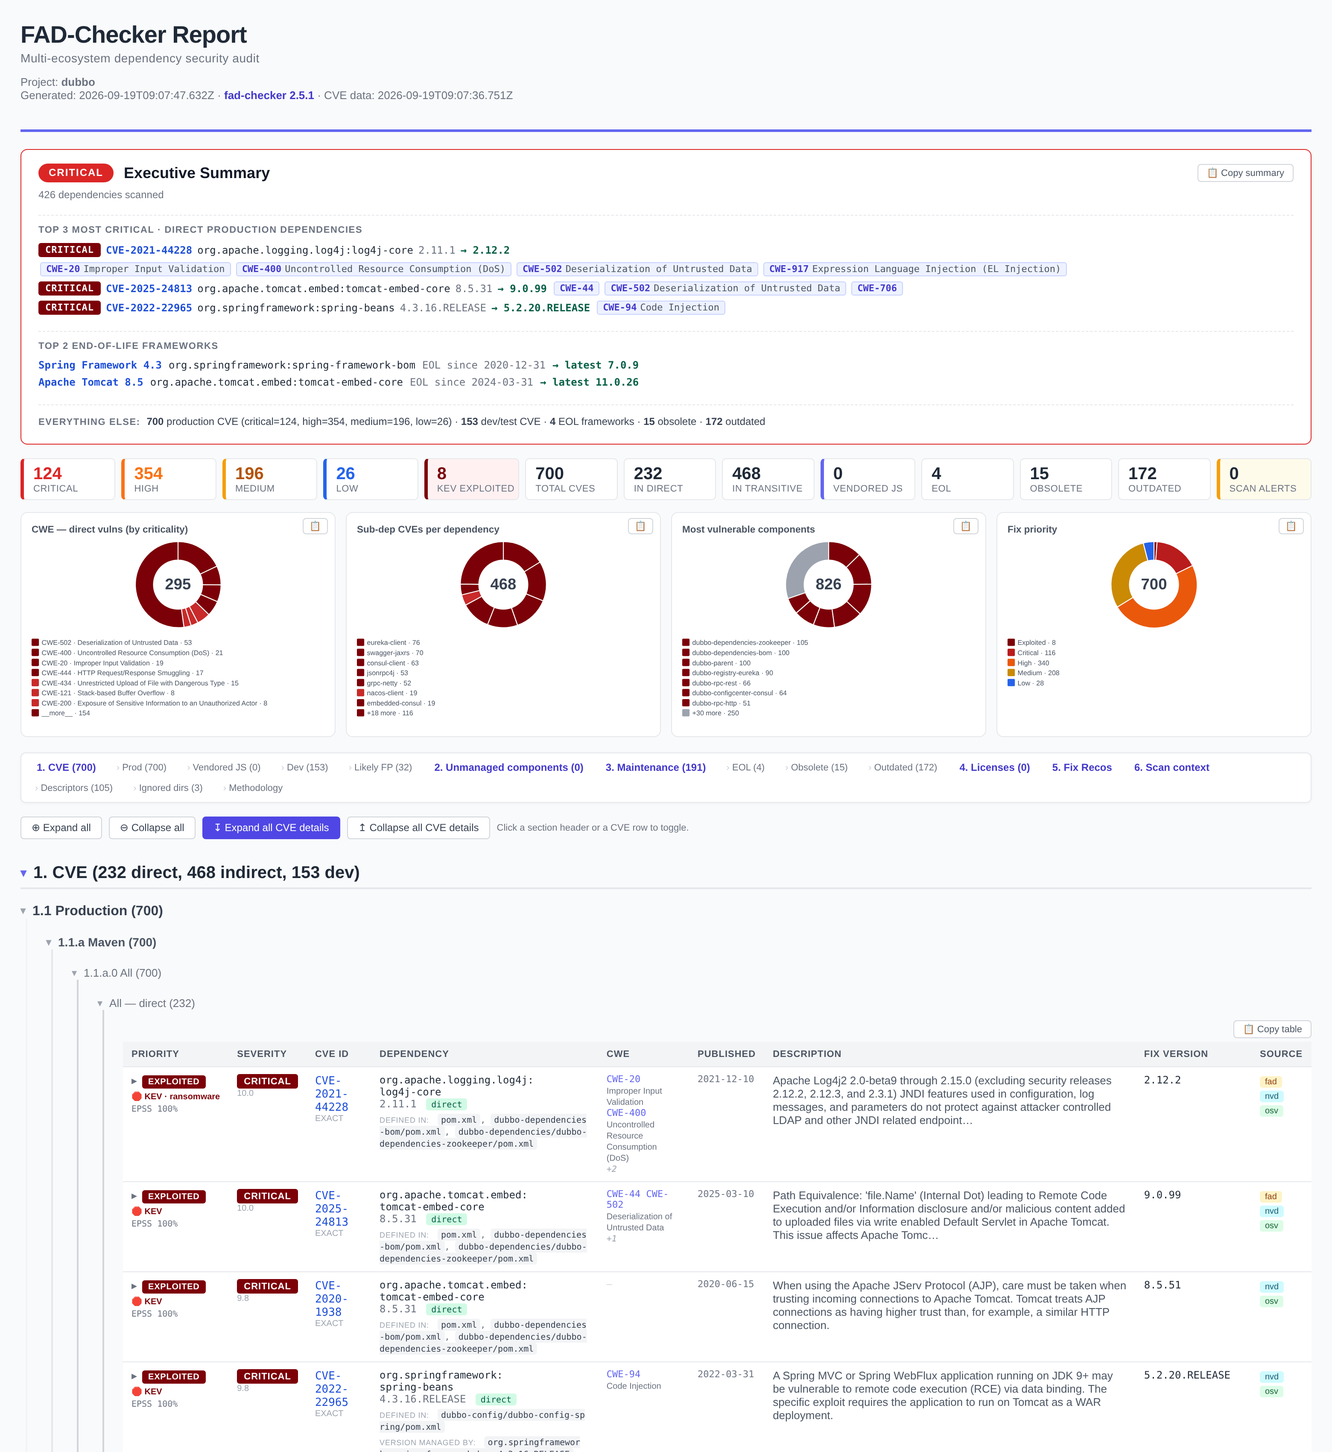
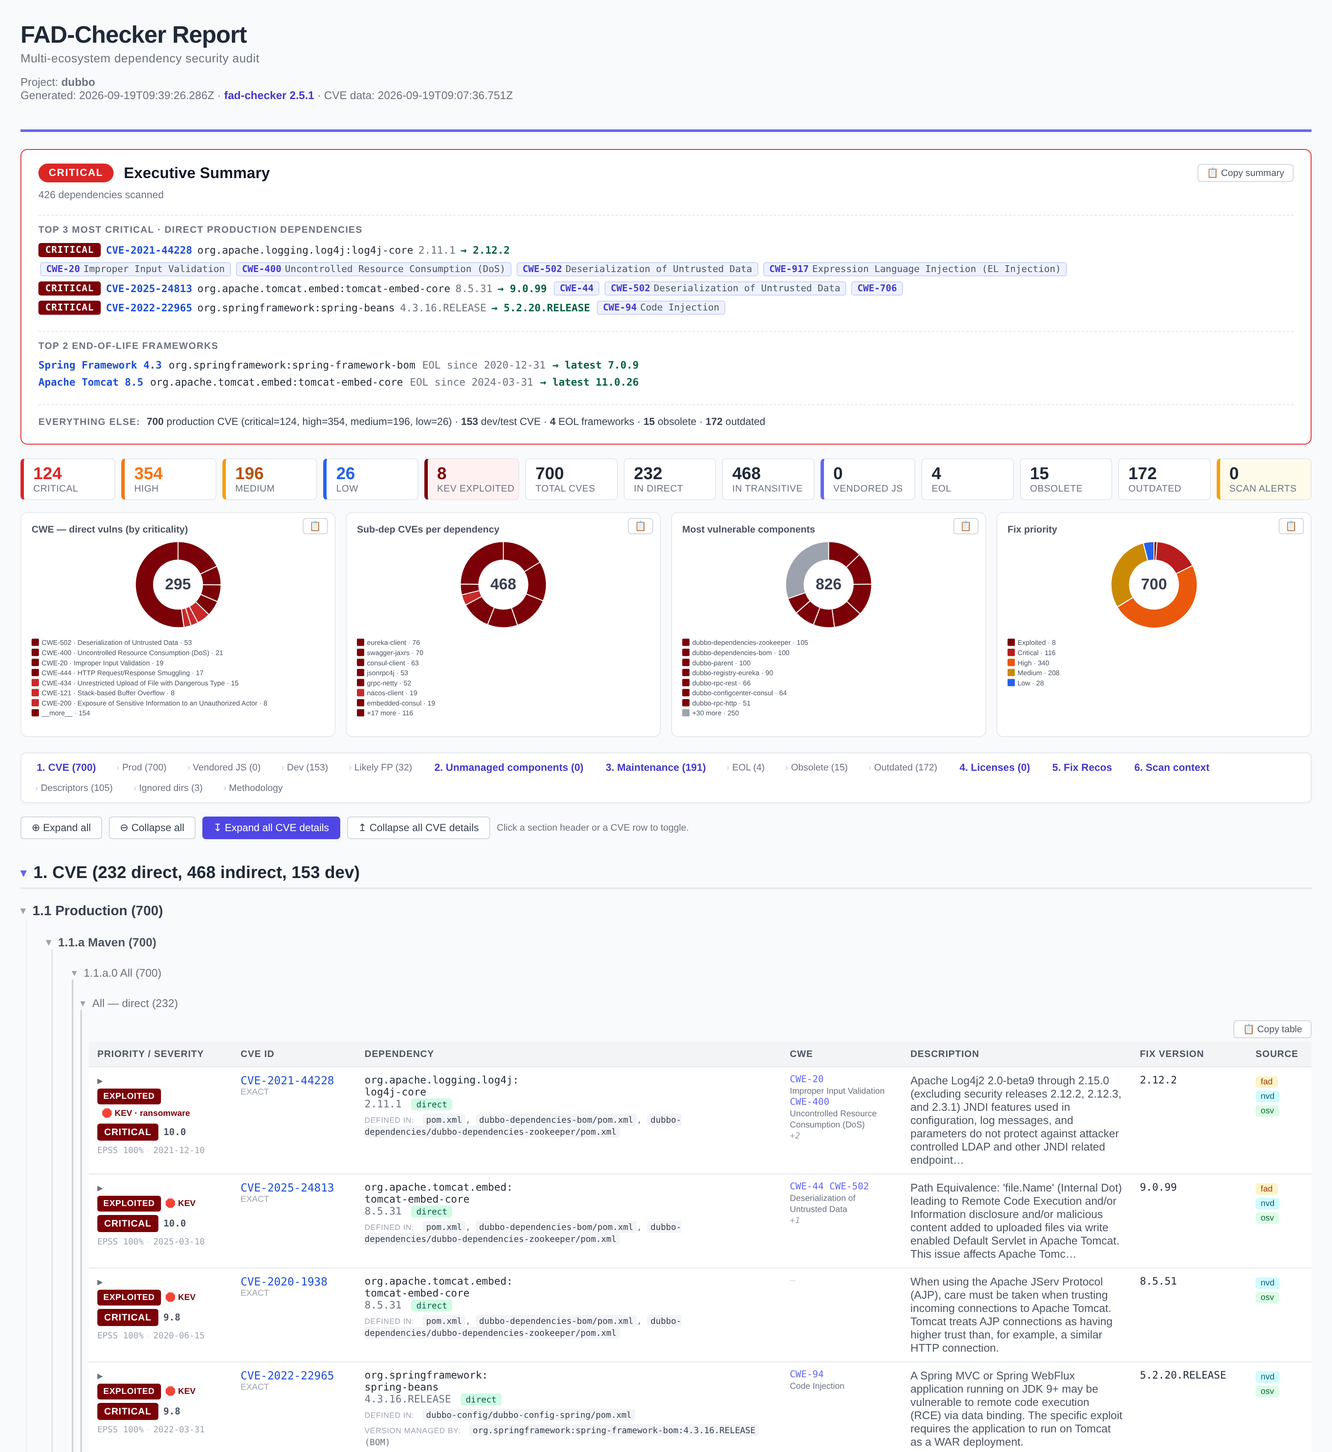
fix(report): the page no longer scrolls sideways, and the CVE table gives its width back
Measured before touching anything: at a 1265px viewport the Dubbo report laid
out 1760px wide. 495px of horizontal document scroll.

The cause is not a fixed table width — tables are width:100%. It is that a
table cannot shrink below the sum of its columns' longest UNBREAKABLE token,
and org.apache.logging.log4j:log4j-core is one token. Chapter 1 then nests
ecosystem, manifest and scope, each level spending ~30px on padding and a
border, so the deepest tables had the least room and the most content. The .doc
stylesheet has hard-fitted tables for Word since it was written; the HTML never
got the same treatment.

overflow-wrap:anywhere is the rule that matters, because unlike
word-break:break-word it also lowers a cell's min-content width, which is what
actually lets the table fit. Applied bluntly it is worse than the bug: the first
attempt rendered CRITICAL as "CRITI/CAL", 5.2.20.RELEASE as "5.2.20.RELEA/SE"
and CVE-2021-44228 as three stacked fragments. So it is scoped to the columns
that genuinely hold long tokens, the fix-version cell got its own class to opt
out, and the severity badge is nowrap. .defined-in code lost word-break:break-all
along the way — it was chopping a 7-character "pom.xml" into "pom.xm" + "l"
because break-all breaks greedily whether or not the word fits.

Priority, Severity and Published are now one cell of three lines: band + KEV,
severity + CVSS score, then EPSS and the date dimmed. They were three narrow
[…]

diff --git a/lib/cve-report.js b/lib/cve-report.js
@@ -74,7 +74,7 @@ const SEVERITY_BADGE = {
 function badge(sev) {
 	const s = (sev || "UNKNOWN").toUpperCase();
 	const c = SEVERITY_BADGE[s] || SEVERITY_BADGE.UNKNOWN;
-	return `<span style="display:inline-block;padding:2px 8px;border-radius:3px;background:${c.bg};color:${c.fg};font-weight:600;font-size:11px;letter-spacing:.5px">${esc(s)}</span>`;
+	return `<span style="display:inline-block;padding:2px 8px;border-radius:3px;background:${c.bg};color:${c.fg};font-weight:600;font-size:11px;letter-spacing:.5px;white-space:nowrap">${esc(s)}</span>`;
 }
 
 const BAND_BADGE = {
@@ -86,7 +86,7 @@ const BAND_BADGE = {
 };
 
 // Priority cell: composite band badge (KEV-aware) + EPSS percentile + KEV chip.
-function priorityCell(m) {
+function priorityParts(m) {
 	const p = m.cve?.priority || computePriority(m.cve || {});
 	const b = BAND_BADGE[p.band] || BAND_BADGE.low;
 	const bandBadge = `<span class="prio-band" style="display:inline-block;padding:2px 7px;border-radius:3px;background:${b.bg};color:${b.fg};font-weight:700;font-size:10px;letter-spacing:.4px">${esc(b.label)}</span>`;
@@ -94,7 +94,34 @@ function priorityCell(m) {
 	const epss = m.cve?.epssPercentile != null
 		? `<div class="epss-chip" title="EPSS score ${(m.cve.epssScore != null ? (m.cve.epssScore * 100).toFixed(1) : "?")}%">EPSS ${Math.round(m.cve.epssPercentile * 100)}%</div>`
 		: "";
-	return `${bandBadge}${kev}${epss}`;
+	return { bandBadge, kev, epss };
+}
+
+/**
+ * Priority, severity and publication date in ONE cell, three short lines.
+ *
+ * They were three columns whose content is a badge, a badge and a date — all narrow, all
+ * fixed-width, together eating ~22% of the table for ~8% of the information. Merging them
+ * hands that width to Description and Dependency, which are the cells that actually wrap,
+ * and removes two columns from a table that was overflowing the page.
+ *
+ *   line 1  priority band + KEV chip      (why this one first)
+ *   line 2  severity badge + CVSS score   (how bad)
+ *   line 3  EPSS + published date         (context, dimmed)
+ */
+function priorityCell(m, published) {
+	const { bandBadge, kev, epss } = priorityParts(m);
+	// 1 — act on this one? fix-priority band, and the KEV flag that overrides everything.
+	const l1 = `<div class="prio-line">${bandBadge}${kev}</div>`;
+	// 2 — how bad is it? CVSS severity and score.
+	const score = m.cve?.score != null ? `<span class="prio-score" title="CVSS base score">${esc(m.cve.score.toFixed(1))}</span>` : "";
+	const l2 = `<div class="prio-line">${badge(m.cve?.severity)}${score}</div>`;
+	// 3 — context, dimmed: exploitation likelihood and when it was published.
+	const bits = [];
+	if (epss) bits.push(epss);
+	if (published) bits.push(`<span class="prio-date" title="Published ${esc(published)}">${esc(published)}</span>`);
+	const l3 = bits.length ? `<div class="prio-line prio-meta">${bits.join(`<span class="prio-sep">·</span>`)}</div>` : "";
+	return `${l1}${l2}${l3}`;
 }
 
 const CSS = `
@@ -152,8 +179,15 @@ h2 { margin: 32px 0 12px; font-size: 20px; border-bottom: 2px solid #e5e7eb; pad
 .exec-summary .exec-fix { color: #065f46; font-weight: 600; }
 .fp-intro { background: #f3f4f6; border-left: 3px solid #6b7280; padding: 10px 14px; margin: 8px 0 16px; font-size: 12px; color: #4b5563; line-height: 1.5; }
 td.prio { white-space: normal; }
+td.prio .prio-line { display: block; line-height: 1.45; margin-bottom: 4px; }
+td.prio .prio-line:last-child { margin-bottom: 0; }
+td.prio .prio-score { margin-left: 6px; font-size: 11px; font-weight: 600; color: #4b5563; font-family: ui-monospace, monospace; }
+td.prio .prio-meta { font-size: 10px; color: #9ca3af; }
+td.prio .prio-date { font-family: ui-monospace, monospace; }
+td.prio .prio-sep { margin: 0 4px; color: #d1d5db; }
+td.prio .prio-meta .epss-chip { display: inline; margin: 0; font-size: 10px; color: #9ca3af; }
 td.prio .prio-band { white-space: nowrap; }
-td.prio .kev-chip { display: block; margin-top: 3px; font-size: 10px; font-weight: 700; color: #7c0008; white-space: nowrap; }
+td.prio .kev-chip { display: inline-block; margin-left: 5px; font-size: 10px; font-weight: 700; color: #7c0008; white-space: nowrap; }
 td.prio .epss-chip { display: block; margin-top: 2px; font-size: 10px; color: #6b7280; font-family: ui-monospace, monospace; white-space: nowrap; }
 .summary .card.sev-kev { border-left: 4px solid #7c0008; background: #fff1f2; }
 .summary .card.sev-kev .v { color: #7c0008; }
@@ -200,14 +234,36 @@ tr.cve-row.cpe-fp td { opacity: .55; }
 .jump-badge.jump-pre, .jump-badge.jump-unknown { background: #f3f4f6; color: #6b7280; }
 tr.jump-patch td, tr.jump-pre td, tr.jump-unknown td { opacity: .75; }
 tr.cve-row .cpe-tag { display: inline-block; margin-top: 2px; font-size: 9px; font-weight: 600; text-transform: uppercase; letter-spacing: .5px; background: #f3f4f6; color: #6b7280; padding: 1px 5px; border-radius: 3px; }
-table { width: 100%; border-collapse: collapse; background: #fff; margin: 8px 0 24px; font-size: 13px; }
-th, td { padding: 8px 10px; text-align: left; border-bottom: 1px solid #e5e7eb; vertical-align: top; }
+/* A table must never widen the PAGE. Its natural minimum width is the sum of its columns'
+   longest unbreakable token — a Maven coordinate like com.fasterxml.jackson.core:jackson-databind
+   is one such token — and every nesting level of chapter 1 removes ~30px of available width
+   (details.report-subsection > div below), so deep tables used to push the document 495px wide
+   at a 1265px viewport. The .doc stylesheet already hard-fits tables for Word; the HTML never
+   did. Let long tokens break, cap the table at its container, and keep any residue inside the
+   table's own wrapper rather than on <body>. */
+table { width: 100%; max-width: 100%; border-collapse: collapse; background: #fff; margin: 8px 0 24px; font-size: 13px; }
+th, td { padding: 8px 10px; text-align: left; border-bottom: 1px solid #e5e7eb; vertical-align: top; word-break: break-word; }
+/* overflow-wrap:anywhere (unlike break-word) also shrinks a cell's MIN-content width, which
+   is what lets the table fit its container at all. Applied only to the columns that really
+   hold long unbreakable tokens - coordinates, paths, CWE lists, prose - so short cells such
+   as the severity badge or a fix version are not chopped mid-word.
+   NB: no backticks in this stylesheet, it lives inside a JS template literal. */
+td.dep, td.desc, td.action, td.cwe, .defined-in, .defined-in code, .via, .update-hint { overflow-wrap: anywhere; }
+/* CVE-2021-44228 is a single identifier: breaking it into "CVE-" / "2021-" / "44228" costs
+   three lines and makes it unsearchable by eye. It is 14 characters; it fits. */
+td.cve, td.cve a { white-space: nowrap; }
+td.cve .confidence, td.cve .cpe-tag { white-space: normal; }
+td.fix { overflow-wrap: normal; word-break: normal; }
 th { background: #f3f4f6; font-weight: 600; font-size: 11px; text-transform: uppercase; letter-spacing: .5px; color: #4b5563; }
 tr:nth-child(even) { background: #fafafa; }
 td.dep { font-family: ui-monospace, monospace; font-size: 12px; }
 .defined-in { margin-top: 4px; font-family: ui-monospace, monospace; font-size: 10px; color: #6b7280; line-height: 1.4; }
 .defined-in .defined-label { color: #9ca3af; font-family: -apple-system, "Segoe UI", Roboto, sans-serif; text-transform: uppercase; letter-spacing: .4px; font-size: 9px; margin-right: 4px; }
-.defined-in code { background: #f3f4f6; padding: 1px 4px; border-radius: 3px; color: #374151; word-break: break-all; }
+/* break-all chopped every chip, so a 7-character 'pom.xml' rendered as 'pom.xm' + 'l'.
+   overflow-wrap:anywhere breaks only when the token genuinely does not fit, which is
+   what a long nested path needs and a short filename does not. */
+.defined-in code { background: #f3f4f6; padding: 1px 4px; border-radius: 3px; color: #374151; overflow-wrap: anywhere; }
+td.action .pin, td.action code { overflow-wrap: anywhere; min-width: 0; }
 code.path { font-family: ui-monospace, monospace; font-size: 0.9em; background: #f3f4f6; padding: 1px 6px; border-radius: 3px; color: #1f2937; font-weight: 400; }
 .exec-summary { border: 1px solid #e5e7eb; border-radius: 8px; padding: 16px 20px; margin: 16px 0; background: #fff; display: flex; flex-direction: column; gap: 8px; }
 .exec-summary .exec-head { display: flex; align-items: center; gap: 12px; }
@@ -293,7 +349,10 @@ details.report-subsection > summary:hover h3 { color: #4b5563; }
 /* Hierarchical indentation: every subsection's content gets a padded,
    bordered container. Nested subsections inherit + add to the indent so
    children visually nest under their parent. */
-details.report-subsection > div { padding-left: 22px; margin-left: 6px; border-left: 2px solid #f3f4f6; padding-top: 4px; }
+details.report-subsection > div { padding-left: 22px; margin-left: 6px; border-left: 2px solid #f3f4f6; padding-top: 4px; min-width: 0; }
+/* Chapter 1 nests ecosystem → manifest → scope, so the inset compounds. Past the second
+   level it only has to show containment, not restate it: 8px instead of 28px each. */
+details.report-subsection details.report-subsection details.report-subsection > div { padding-left: 8px; margin-left: 0; }
 details.report-subsection details.report-subsection > summary h3 { font-size: 14px; color: #4b5563; }
 details.report-subsection details.report-subsection details.report-subsection > summary h3 { font-size: 13px; color: #6b7280; font-weight: 500; }
 details.report-subsection details.report-subsection > div { border-left-color: #e5e7eb; }
@@ -305,7 +364,7 @@ details.report-subsection details.report-subsection details.report-subsection > 
 .toolbar .btn.primary:hover { background: #4338ca; }
 .toolbar .toolbar-label { font-size: 11px; color: #6b7280; }
 /* Table copy controls — one toolbar per table */
-.table-wrap { margin: 8px 0 24px; }
+.table-wrap { margin: 8px 0 24px; max-width: 100%; overflow-x: auto; }
 .table-wrap > table { margin: 0; }
 .table-actions { display: flex; justify-content: flex-end; gap: 6px; margin-bottom: 4px; }
 .btn-copy { display: inline-flex; align-items: center; gap: 4px; padding: 3px 10px; font-size: 11px; background: #fff; border: 1px solid #d1d5db; border-radius: 4px; cursor: pointer; color: #4b5563; font-family: inherit; transition: all .15s ease; }
@@ -734,14 +793,12 @@ function renderCveRow(m, opts = {}) {
 	// tr.detail-row. JS toggle is at the bottom of the document; links inside
 	// cells stay clickable (the handler ignores anchor/button clicks).
 	return `<tr class="cve-row${m.cpeFiltered ? " cpe-fp" : ""}">
-		<td class="prio">${priorityCell(m)}</td>
-		<td>${badge(m.cve.severity)}${m.cve.score != null ? `<div class="confidence">${esc(m.cve.score.toFixed(1))}</div>` : ""}</td>
+		<td class="prio">${priorityCell(m, pub)}</td>
 		<td class="cve"><a href="${link}" target="_blank">${esc(m.cve.id)}</a>${conf}${m.cpeFiltered ? `<div class="cpe-tag">CPE-filtered</div>` : ""}</td>
 		${depCell(m.dep)}
 		<td class="cwe">${cwes}</td>
-		<td class="published">${esc(pub)}</td>
 		<td class="desc">${esc(shortDesc(m.cve.description))}</td>
-		<td class="dep">${esc(m.cve.fixVersion || "—")}</td>
+		<td class="dep fix">${esc(m.cve.fixVersion || "—")}</td>
 		<td>${source}</td>
 		${actionCell}
 	</tr>
@@ -775,7 +832,7 @@ function renderCveTable(cveMatches, opts = {}) {
 	const rows = sortByPriority(cveMatches).map(m => renderCveRow(m, opts)).join("\n");
 	const actionHeader = withAction ? `<th>Recommended action</th>` : "";
 	return `<table>
-		<thead><tr><th>Priority</th><th>Severity</th><th>CVE ID</th><th>Dependency</th><th>CWE</th><th>Published</th><th>Description</th><th>Fix Version</th><th>Source</th>${actionHeader}</tr></thead>
+		<thead><tr><th title="Line 1: fix-priority band and CISA KEV flag. Line 2: CVSS severity and base score. Line 3: EPSS percentile and publication date.">Priority / severity</th><th>CVE ID</th><th>Dependency</th><th>CWE</th><th>Description</th><th>Fix Version</th><th>Source</th>${actionHeader}</tr></thead>
 		<tbody>${rows}</tbody>
 	</table>`;
 }
@@ -2079,6 +2136,26 @@ const COPY_SCRIPT = `
 			var prev = td.getAttribute('style') || '';
 			td.setAttribute('style', 'padding:6px 8px; border:1px solid #e5e7eb; vertical-align:top; ' + prev);
 		});
+		// The merged priority cell stacks three lines. The clipboard carries no stylesheet,
+		// so each piece states its own layout; the inline chips become <span> because Word
+		// renders display:inline on a <div> unreliably and would break the line.
+		clone.querySelectorAll('.prio-line').forEach(function(el){
+			el.setAttribute('style', 'display:block; margin-bottom:2px;');
+		});
+		clone.querySelectorAll('.kev-chip, .epss-chip').forEach(function(el){
+			var span = document.createElement('span');
+			span.innerHTML = el.innerHTML;
+			span.setAttribute('style', el.classList.contains('kev-chip')
+				? 'margin-left:6px; font-weight:bold; font-size:8pt; color:#7c0008;'
+				: 'font-size:8pt; color:#6b7280;');
+			el.parentNode.replaceChild(span, el);
+		});
+		clone.querySelectorAll('.prio-meta').forEach(function(el){
+			el.setAttribute('style', 'display:block; margin-bottom:2px; font-size:8pt; color:#6b7280;');
+		});
+		clone.querySelectorAll('.prio-score').forEach(function(el){
+			el.setAttribute('style', 'margin-left:6px; font-weight:bold; font-size:9pt; color:#4b5563;');
+		});
 		// Replace severity badges with plain coloured text so they survive paste
 		clone.querySelectorAll('span[style*="border-radius"]').forEach(function(s){
 			var m = (s.getAttribute('style') || '').match(/background:\\s*(#[0-9a-fA-F]{3,6})/);
@@ -2354,6 +2431,13 @@ tr.detail-row { display: table-row !important; }
 /* Remove shadows / sticky / hover effects that confuse Word */
 .report-header, .exec-summary, .summary .card, .warnings { box-shadow: none !important; }
 .fix-recipe code { white-space: pre-wrap; word-break: break-word; overflow-x: visible; font-size: 8pt; }
+/* Merged priority cell: three stacked lines. Word honours block/inline on divs
+   inconsistently, so both are stated rather than inherited. */
+td.prio .prio-line { display: block !important; margin-bottom: 2px; }
+td.prio .kev-chip, td.prio .epss-chip { display: inline !important; }
+td.prio .kev-chip { margin-left: 5px; font-size: 8pt; font-weight: bold; color: #7c0008; }
+td.prio .prio-meta { font-size: 8pt; color: #6b7280; }
+td.prio .prio-score { margin-left: 5px; font-size: 9pt; font-weight: bold; color: #4b5563; }
 /* Long URLs and coordinates: wrap instead of overflow */
 td.cve, td.dep, .via, .ref-list li, .defined-in code { word-break: break-word; overflow-wrap: anywhere; }
 /* Tighter colour palette so Word prints cleanly */
@@ -2390,10 +2474,10 @@ const WORD_SECTION_PR = `<!--[if gte mso 9]>
 // so Word can lay out the columns deterministically instead of inflating wide
 // columns based on natural content width.
 const TABLE_COLGROUPS = {
-	// 9-col CVE table (header starts with <th>Priority</th><th>Severity</th>…)
-	cve: { match: /<thead><tr><th>Priority<\/th><th>Severity<\/th><th>CVE ID<\/th><th>Dependency<\/th><th>CWE<\/th><th>Published<\/th><th>Description<\/th><th>Fix Version<\/th><th>Source<\/th>(<th>Recommended action<\/th>)?<\/tr><\/thead>/,
-	  widths9: [9, 7, 9, 14, 9, 6, 22, 10, 14],
-	  widths10: [8, 6, 8, 12, 8, 6, 18, 9, 13, 12] },
+	// 7-col CVE table — Priority, Severity and Published are ONE cell (three lines).
+	cve: { match: /<thead><tr><th[^>]*>Priority \/ severity<\/th><th>CVE ID<\/th><th>Dependency<\/th><th>CWE<\/th><th>Description<\/th><th>Fix Version<\/th><th>Source<\/th>(<th>Recommended action<\/th>)?<\/tr><\/thead>/,
+	  widths9: [13, 9, 16, 10, 28, 11, 13],
+	  widths10: [12, 8, 14, 9, 23, 10, 11, 13] },
 	// 6-col EOL table
 	eol: { match: /<thead><tr><th>Product<\/th><th>Dependency<\/th><th>EOL date<\/th><th>Latest<\/th><th>Source<\/th><th>Notes<\/th><\/tr><\/thead>/,
 	  widths: [13, 24, 10, 10, 17, 26] },

diff --git a/CLAUDE.md b/CLAUDE.md
@@ -144,6 +144,8 @@ For the deep dive — pipeline stages, the resolved-deps Map shape, report struc
 - **All profiles are merged, never prompted for**: every profile's deps are unioned so Snyk sees every dep any profile could pull in. `activeByDefault` wins only for property value conflicts.
 - **No `process.exit(1)` mid-pipeline**: a parse/rewrite failure for one POM logs and continues so the summary still prints.
 - **HTML report is self-contained**: inline CSS, no external assets. The `.doc` variant is the same HTML with Office XML namespace meta tags — Word opens it natively.
+- **A table must never widen the PAGE**: a table's minimum width is the sum of its columns' longest UNBREAKABLE token, and chapter 1 nests ecosystem → manifest → scope, each level costing ~30px (`details.report-subsection > div`). Measured at 495px of horizontal document overflow on the Dubbo report before the fix. Three rules keep it at 0 (verified 768→1600px): `overflow-wrap: anywhere` on the columns that hold long tokens ONLY — it is what shrinks min-content width, unlike `word-break: break-word` — with short cells (`td.cve`, `td.fix`, the severity badge) explicitly exempt so an identifier is not chopped into `CVE-`/`2021-`/`44228`; `.table-wrap { overflow-x: auto }` so any residue scrolls the table, never `<body>`; and a flattened inset past the second nesting level. The `.doc` stylesheet already hard-fitted tables for Word; the HTML never did.
+- **Priority / severity / published are ONE cell, three lines** (`priorityCell`): band + KEV, then severity + CVSS score, then EPSS + date (dimmed). Three narrow fixed-width columns were spending ~22% of the table on ~8% of the information. **Both Word paths must be kept in sync when this cell changes**: the `.doc` stylesheet states `display` explicitly (Word honours block/inline on a `<div>` unreliably) and `inlineStylesForWord` rewrites the inline chips to `<span>` with inline styles, because the clipboard carries no stylesheet. `TABLE_COLGROUPS.cve.match` keys on the exact header text — editing the header without it silently drops the Word column widths.
 - **Codec abstraction**: every ecosystem lives behind a codec (`lib/codecs/*`) implementing one interface (`detect`/`collect`/`coordKey`/`formatCoord`/`osvPackageName`/`checkRegistry`/`resolveEolProduct`/`recipe`/`nativeScanners`). The orchestrator loops over the codecs `detectCodecs()` returns. OSV/NVD/CPE and the endoflife.date fetch are **shared, ecosystem-agnostic** services that ask the codec for a package/product name. CVE-index (maven) and retire.js (npm) are `nativeScanners` owned by their codec. Adding an ecosystem = adding a codec, no orchestrator edits.
 - **Map keys are ecosystem-namespaced** (`dep.coordKey`): Maven uses a **bare** `g:a` (kept prefix-free so `transitive.js` internals and existing tests are untouched); npm uses `npm:name`; new ecosystems use `nuget:`/`composer:vendor/pkg`/`pypi:`. Bare `g:a` is collision-free against those prefixes. Built by `makeDepRecord()`; `groupId`/`artifactId`/`pomPaths` are kept as real duplicated alias fields (not getters — depRecords are spread in hot paths).
 - **Every distinct version is scanned, not just the highest**: when profiles/modules pin the same `g:a` to different versions, the resolved-dep entry keeps `version` = highest (representative for display/EOL/outdated) but `versions` = all distinct concrete versions. CVE matching (`matchOne`) and OSV (`queryOsvForDeps`) iterate `versions` so a vuln affecting only a lower-versioned profile variant isn't missed. Match dedup keys are `g:a:version|cve.id` (version included) to preserve per-version findings. **Masked transitive versions are added by `lib/version-overlay.js`** (see below): they land in `versions[]` with a `maskedVersions[]` provenance entry (`{version, via, module}`).

diff --git a/CHANGELOG.md b/CHANGELOG.md
@@ -29,6 +29,15 @@ This project adheres to [Semantic Versioning](https://semver.org/).
   version, its docs, its issue tracker — without asking whoever ran the scan.
 
 ### Changed
+- **The report no longer scrolls sideways, and the CVE table lost three columns.** A table's
+  minimum width is set by its longest unbreakable token — a Maven coordinate is one — and
+  chapter 1's nesting removes ~30px per level, so the document ran 495px wider than the
+  viewport. Long tokens now break (only in the columns that hold them: a CVE id or a severity
+  badge is never chopped mid-word), any residue scrolls inside the table instead of the page,
+  and the inset flattens past the second level. Measured at 0px overflow from 768px to 1600px.
+  Priority, Severity and Published are merged into one three-line cell — band + KEV, severity +
+  CVSS, then EPSS + date — which returns their width to Description and Dependency. Both Word
+  paths were updated with it: the `.doc` stylesheet and the clipboard's inline-style pass.
 - **Overview chart 3 is now "Most vulnerable components".** It ranks the scanned project's
   OWN modules — Maven artifactId, package.json / composer.json name, go module, pyproject
   name, else the path relative to `--src` — by their count of **critical + high** production
